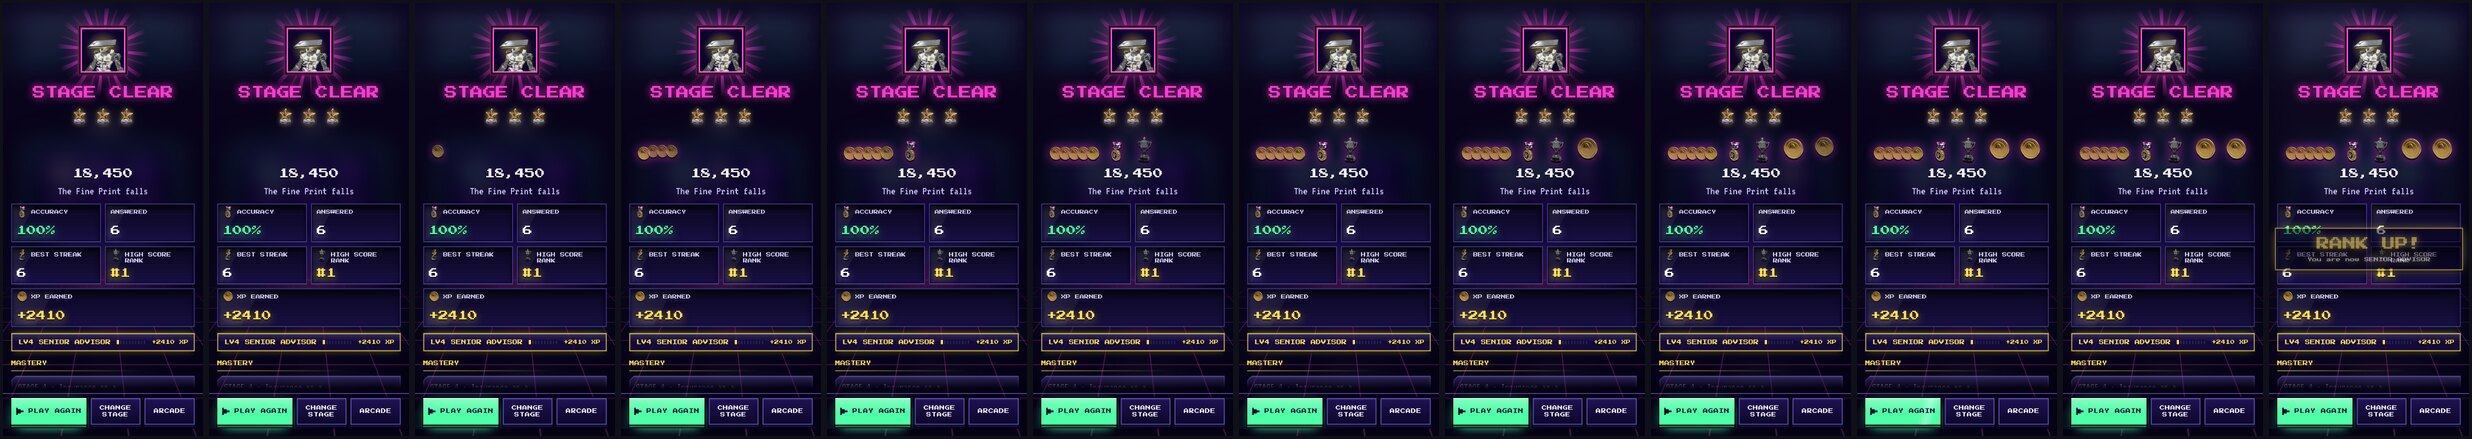
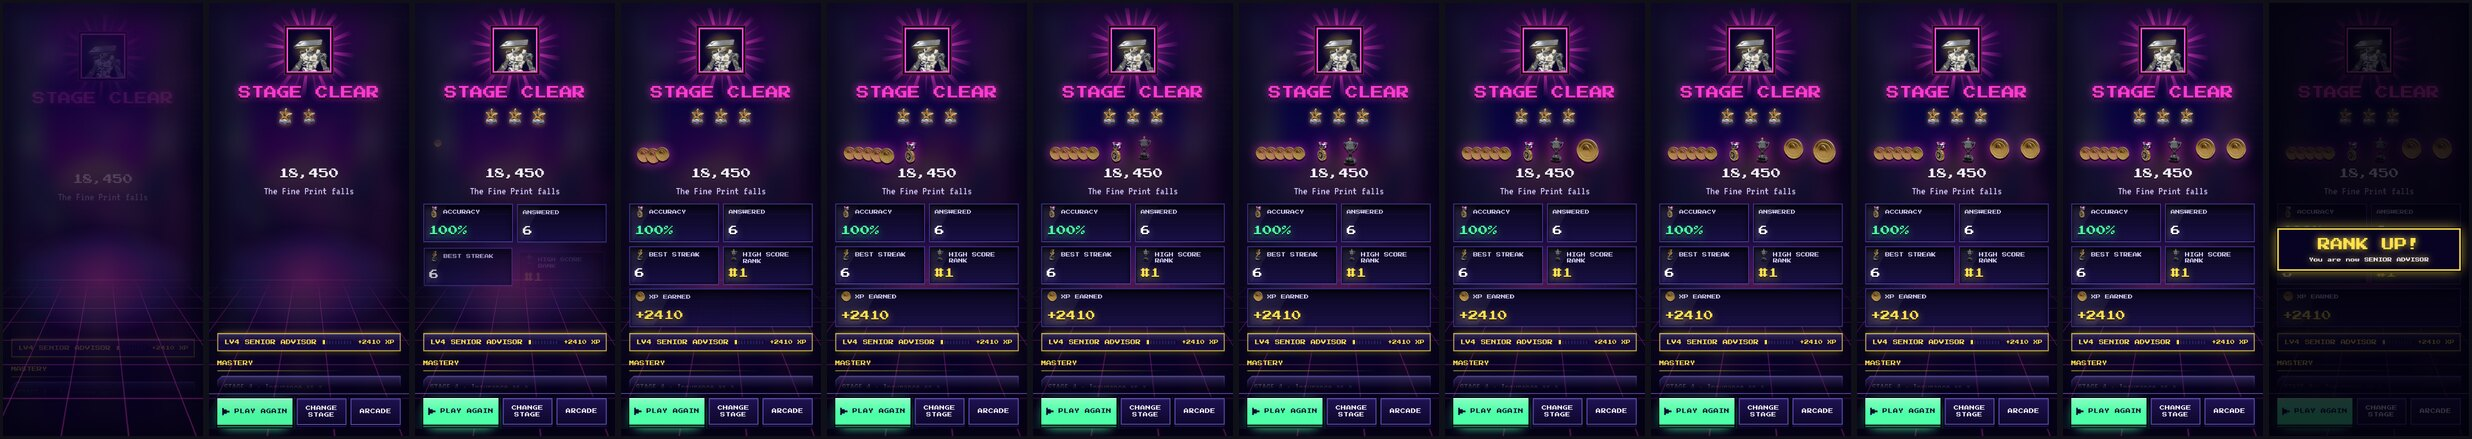
RANK UP! reads: an opaque plate with a border, a dark scrim over the tiles (Phase 6, ruling 5)
The plate is opaque with a heavier border and a black keyline, and stands a
little longer (2.2 s); a dark scrim lies over the results tiles under it
while it is up. Only the plated banner after a reward moment changes (served
only: it needs the generated icons). The menus scenario gets PART=results,
and steps the page's animations with the frames from the results on, as the
Boss Rush scenario does: unstepped, the plate was caught half faded in.
Full regression from disk IDENTICAL.

Claude-Session: https://claude.ai/code/session_01SXN4PWw2h7NprrScNwTTGU

diff --git a/arcade/tools/scenarios/menus.js b/arcade/tools/scenarios/menus.js
@@ -56,19 +56,43 @@ module.exports = async (cap) => {
   await strip("06b-hub-chosen", 6, 6, { thumb: 260 });
   await cap.fast(60);
   }
-  if (part("menus")) {
+  if (part("menus") || part("results")) { // (PART=results: only the reward moment, 08)
 
   // ---- chapter select (Boss Rush: the bosses' busts, stars drawn from the model)
+  if (part("menus")) {
   await cap.eval(() => window.__arcade.show.select("boss"));
   await cap.fast(120);
   await still("07-chapter-select");
+  }
   // ---- a results screen and its reward moment: stars, coins, a medal, a cup for the new best, two new trophies
+  // (Phase 6: from here the page's own animations, in CSS and scripted, are stepped with the frames, as Boss Rush's
+  // scenario steps them: they run on the real clock and a capture steps a virtual one, so RANK UP!'s plate was caught
+  // half faded in. Now a strip shows what a player sees.)
+  await cap.eval(() => {
+    if (window.__stepped) return;
+    window.__stepped = true;
+    const animate = Element.prototype.animate, live = [], css = new WeakMap();
+    Element.prototype.animate = function (fr, o) { const a = animate.call(this, fr, o); a.pause(); live.push({ a, t0: performance.now() }); return a; };
+    const step = () => {
+      const now = performance.now();
+      for (const x of live) { try { x.a.currentTime = now - x.t0; } catch (e) { /* gone */ } }
+      if (document.getAnimations) for (const an of document.getAnimations()) {
+        if (!/^CSS(Animation|Transition)$/.test(an.constructor && an.constructor.name)) continue;
+        let t0 = css.get(an);
+        if (t0 === undefined) { t0 = now; css.set(an, t0); an.pause(); }
+        try { an.currentTime = now - t0; } catch (e) { /* gone */ }
+      }
+      requestAnimationFrame(step);
+    };
+    requestAnimationFrame(step);
+  });
   await cap.eval(() => {
     const A = window.__arcade;
     A.show.results({ game: "boss", sel: A.makeSelection("4"), run: { correct: 6, answered: 6, bestStreak: 6, missed: [], xp0: -230, start: {} }, stars: 3, score: 18450,
       title: "STAGE CLEAR", headline: "18,450", sub: "The Fine Print falls", color: "#ff3ad4", won: ["boss6", "streak20"] }, 0);
   });
   await strip("08-results-reward", 12, 16, { thumb: 200, cols: 12 }); // (and RANK UP! once the last reward has landed)
+  if (part("menus")) {
   await cap.fast(150);
   await still("09-results");
   // ---- stats: rank, tiles, the trophies
@@ -77,6 +101,7 @@ module.exports = async (cap) => {
   await cap.eval(() => { const t = document.querySelector(".trophies"); if (t) t.scrollIntoView({ block: "center" }); });
   await cap.fast(10);
   await still("10-stats");
+  }
   }
 
   // ---- Memory Bank: the vault, then a card banked (the coin flies up into the slot)

diff --git a/arcade/src/style.css b/arcade/src/style.css
@@ -1801,10 +1801,14 @@ canvas.gen { image-rendering: auto !important; filter: none !important; }
 /* the label over the vault's 3D window stands on its own dark plate (served) */
 .assets-on .vault-window > span { background: rgba(14, 8, 2, 0.9); padding: 5px 8px 4px; box-shadow: 0 0 0 2px #000; left: 8px; top: 7px; }
 /* a banner on its own dark plate, inside the screen's edges (RANK UP! after a reward moment: it must not cross the score) */
-.banner.plated { left: 16px; right: 16px; top: 52%; padding: 14px 12px 12px; background: rgba(6, 2, 22, 0.92); border: 2px solid var(--c, var(--yellow)); box-shadow: 0 0 22px -6px var(--c, var(--yellow)), 0 4px 0 #000; font-size: clamp(20px, 6.4vw, 40px); }
+/* (Phase 6: the plate is opaque, with a heavier border, and stands a little longer; a dark scrim lies over the tiles
+   under it while it is up, so nothing of them shows through or beside its words) */
+.banner.plated { left: 16px; right: 16px; top: 52%; padding: 14px 12px 12px; background: #080322; border: 3px solid var(--c, var(--yellow)); box-shadow: 0 0 0 2px #000, 0 0 24px -4px var(--c, var(--yellow)), 0 5px 0 #000; font-size: clamp(20px, 6.4vw, 40px); }
 .banner.plated small { font-size: 9px; line-height: 1.5; margin-top: 8px; white-space: normal; overflow-wrap: anywhere; }
-.banner.plated { animation: banner-plate 1.4s ease-out forwards; } /* (it never grows past the screen's edges) */
-@keyframes banner-plate { 0% { opacity: 0; transform: scale(1.06); } 12% { opacity: 1; transform: none; } 85% { opacity: 1; } 100% { opacity: 0; } }
+.banner.plated { animation: banner-plate 2.2s ease-out forwards; } /* (it never grows past the screen's edges) */
+@keyframes banner-plate { 0% { opacity: 0; transform: scale(1.06); } 8% { opacity: 1; transform: none; } 90% { opacity: 1; } 100% { opacity: 0; } }
+.rank-scrim { position: fixed; inset: 0; z-index: 29; pointer-events: none; background: rgba(3, 1, 12, 0.8); animation: rank-scrim 2.2s ease-out forwards; }
+@keyframes rank-scrim { 0% { opacity: 0; } 8% { opacity: 1; } 90% { opacity: 1; } 100% { opacity: 0; } }
 .res-rewards .rw { display: flex; flex-direction: column; align-items: center; gap: 2px; opacity: 0; }
 .res-rewards .rw.in { opacity: 1; animation: rw-in 0.55s var(--ease-spring, ease-out) backwards; }
 .res-rewards .rw .gico { width: 40px; height: 40px; filter: drop-shadow(0 3px 0 rgba(0, 0, 0, 0.7)) drop-shadow(0 0 10px color-mix(in srgb, var(--c, #ffe14f) 55%, transparent)); }

diff --git a/arcade/src/js/30-results.js b/arcade/src/js/30-results.js
@@ -163,7 +163,12 @@ function renderResults(o, rank) {
       if (r1.i > r0.i) {
         // (with a reward moment it waits until the last reward has landed, and stands on its own plate inside the screen's edges)
         const settle = rw.length ? (rw[rw.length - 1].at + 0.75) * 1000 : 500;
-        setTimeout(() => { Sound.sfx("rankup"); UI.banner("RANK UP!", COLORS.yellow, "You are now " + r1.name, rw.length ? "plated" : ""); GFX.pulse(6, 0.25); }, settle);
+        setTimeout(() => {
+          Sound.sfx("rankup");
+          if (rw.length) { const sc = UI.root.appendChild(UI.el('<div class="rank-scrim"></div>')); setTimeout(() => sc.remove(), 2200); } // (Phase 6: the tiles go dark under its plate while it is up)
+          UI.banner("RANK UP!", COLORS.yellow, "You are now " + r1.name, rw.length ? "plated" : "");
+          GFX.pulse(6, 0.25);
+        }, settle);
       }
     },
   });

diff --git a/arcade/src/js/05-ui.js b/arcade/src/js/05-ui.js
@@ -111,7 +111,7 @@ const UI = {
     Sound.say(text);
     const b = this.el(`<div class="banner${cls ? " " + cls : ""}" style="--c:${color}">${esc(text)}${sub ? `<small>${esc(sub)}</small>` : ""}</div>`);
     this.root.appendChild(b);
-    setTimeout(() => b.remove(), 1400);
+    setTimeout(() => b.remove(), cls.indexOf("plated") >= 0 ? 2200 : 1400); // (a plated banner, RANK UP!, stands a little longer: see style.css)
   },
   floater(text, x, y, color = COLORS.yellow, big = false) {
     const f = this.el(`<div class="floater${big ? " big" : ""}" style="--c:${color};left:${x}px;top:${y}px">${esc(text)}</div>`);

diff --git a/arcade/docs/combat-pass/final/STATUS.md b/arcade/docs/combat-pass/final/STATUS.md
@@ -8,7 +8,7 @@ Brief: the lead's rulings on the final review (r1). One commit per fix; regressi
 | 2 | Risk Blaster low health: beating red frame round the band, smoke and flame on the visible hull; Nest Egg Run's last-life frame stronger | done (racer capture with the racer batch) |
 | 3 | Final Exam examiner: a hard-edged chest core over the smear, cool key and magenta rim (hitStop calls untouched) | done |
 | 4 | Risk Blaster's ambient ships read as ships (lights as points, less tint and bloom, further into the haze) | to do |
-| 5 | RANK UP! on an opaque bordered plate, a dark scrim over the tiles | to do |
+| 5 | RANK UP! on an opaque bordered plate, a dark scrim over the tiles | done |
 | 6 | Exam passed: question UI and NEXT cleared before the banner and SKIP; toast held until the cinematic ends | done |
 | - | Cheap ones: crash bloom cap, wash-outs capped, bonus line inside the screen, cracks off the text, lane D props, Memory Bank blob | to do |
 | T | The lead's remade car and bus (cbf7de1) merged; traffic retuned | done |
@@ -58,3 +58,10 @@ Brief: the lead's rulings on the final review (r1). One commit per fix; regressi
   and the ending's length are as they were. `style.css`: the two classes. Regression exam IDENTICAL both ways.
   Re-captured menus 13-exam, 14-exam-passed (t1 the question alone; then the banner alone; then the bar and SKIP
   alone; no card during the ending).
+- **Ruling 5 (RANK UP!).** Served only by nature (the plated banner needs the generated icons). `style.css`: the
+  plate opaque (#080322), a 3 px border in its colour with a black keyline, 2.2 s with a longer hold; `.rank-scrim`
+  (rgba 3,1,12,0.8) over the tiles under it, same timing. `05-ui.js` UI.banner: a plated banner stays 2.2 s (others
+  1.4 s as before). `30-results.js`: the scrim with the plated RANK UP!. `tools/scenarios/menus.js`: PART=results
+  makes only 08, and from the results on the page's animations are stepped with the frames (as boss-fight.js does):
+  unstepped, the plate was caught half faded in, which is what the review saw. Re-captured menus 08-results-reward.
+  Full regression from disk IDENTICAL.
